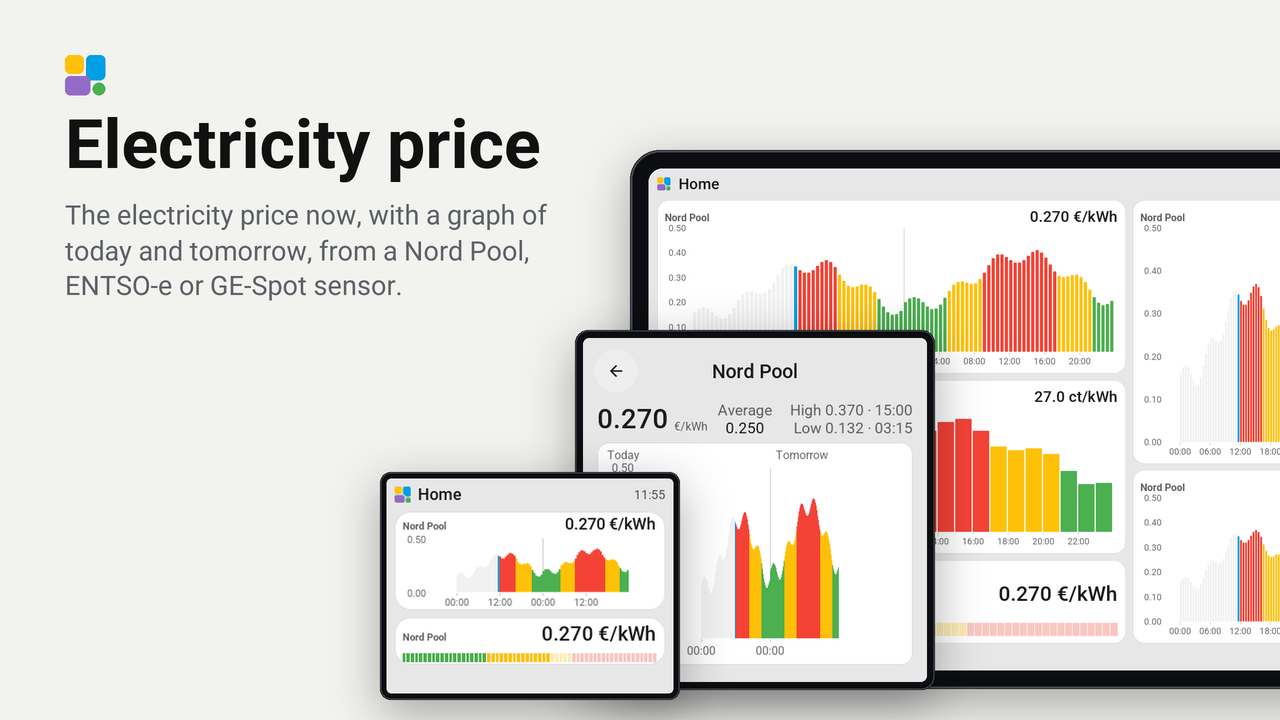
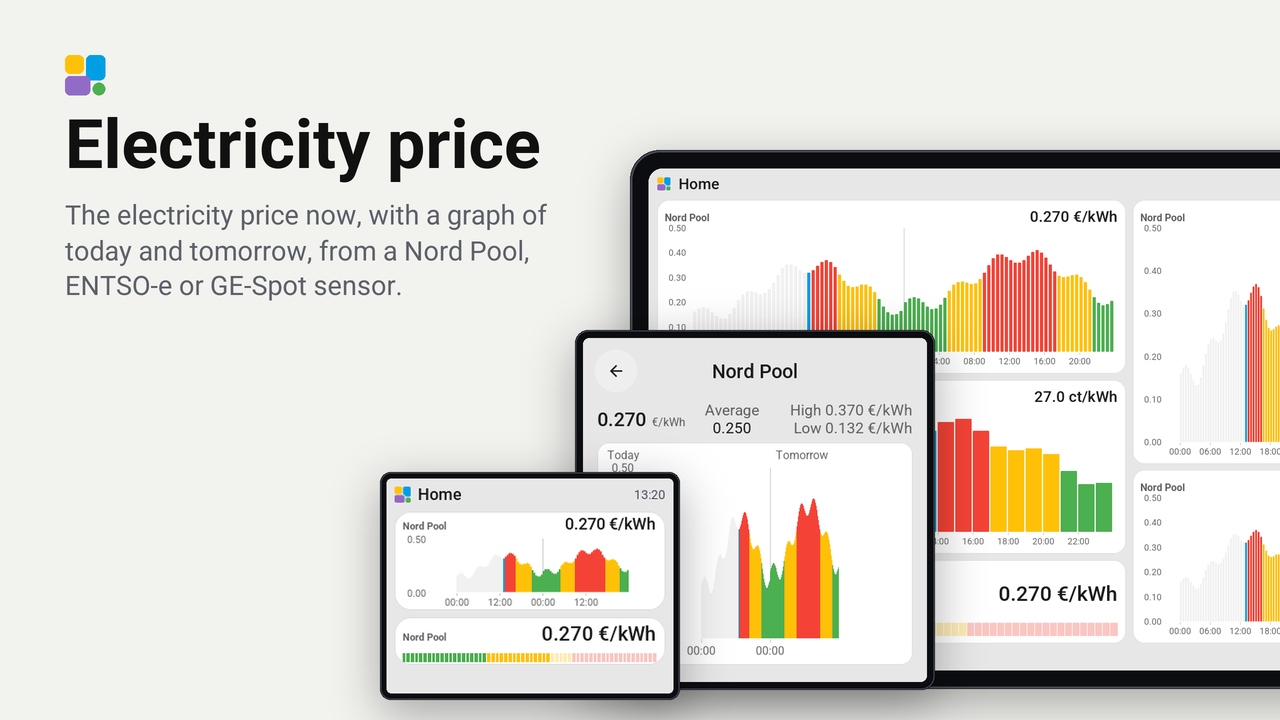
feat: units on card stats, selected bar under time slot, wide card (0.6.1)

diff --git a/components/electricity_price/electricity_price.cpp b/components/electricity_price/electricity_price.cpp
@@ -551,8 +551,8 @@ class PriceCard : public tessera::Card {
     // The header as the history card has it: the price at the left, the average in the middle, and at the right the
     // highest and the lowest with the time slot they are in.
     // The words are the size of the history card's: the font of the words on a key.
-    left_w_ = width_ * 36 / 100;
-    right_x_ = width_ * 58 / 100;
+    left_w_ = width_ * 32 / 100;
+    right_x_ = width_ * 54 / 100;
     avg_cap_ = ui::label(c.parent, Font::BODY_LARGE, theme::MUTED);
     lv_obj_set_size(avg_cap_, right_x_ - left_w_, text_h);
     lv_obj_set_style_text_align(avg_cap_, LV_TEXT_ALIGN_CENTER, 0);
@@ -602,7 +602,6 @@ class PriceCard : public tessera::Card {
     if (sel_ >= 0 && (!ok || prices_.days == 0 || epoch >= sel_until_)) { sel_ = -1; chart_.select(-1); }
     std::string big = ok ? number(prices_.current, decimals_) : plugin_->text(prices_.chosen ? "unavailable" : "choose");
     const std::string small = ok ? unit_text(prices_, cents_) : "";
-    if (sel_ >= 0) big = number(chart_.bar_value(sel_), decimals_);
     Font face = Font::TITLE;
     for (Font f : {Font::VALUE, Font::HEADLINE, Font::TITLE})
       if (ui::text_width(big, f) + gap + ui::text_width(small, Font::BODY) <= left_w_) { face = f; break; }
@@ -617,11 +616,12 @@ class PriceCard : public tessera::Card {
     lv_obj_set_pos(unit_, vw + gap, (head_ - vh) / 2 + vh - sh - ui::px(2));
     const bool graph = ok && prices_.days > 0;
     if (graph && sel_ >= 0) {
+      // The tapped bar: its time slot, and its price under it, while the price of now stays where it is.
       ui::set_text(avg_cap_, slot_times(epoch));
-      ui::set_text(avg_, "");
+      ui::set_text(avg_, with_unit(chart_.bar_value(sel_), right_x_ - left_w_));
     } else {
       ui::set_text(avg_cap_, graph ? plugin_->text("average") : "");
-      ui::set_text(avg_, graph ? number(prices_.avg, decimals_) : "");
+      ui::set_text(avg_, graph ? with_unit(prices_.avg, right_x_ - left_w_) : "");
     }
     ui::set_text(extreme_[0], graph ? extreme_text("high", prices_.hi, prices_.hi_slot, epoch) : "");
     ui::set_text(extreme_[1], graph ? extreme_text("low", prices_.lo, prices_.lo_slot, epoch) : "");
@@ -674,8 +674,17 @@ class PriceCard : public tessera::Card {
   }
 
   // "High 0.381 · 18:00–18:15": the price and the time slot it is in; only the start when the whole does not fit.
+  // The price with its unit behind it; the price alone when both do not fit in `room`.
+  std::string with_unit(float value, int room) const {
+    const std::string n = number(value, decimals_), unit = unit_text(prices_, cents_);
+    const std::string both = unit.empty() ? n : n + " " + unit;
+    return ui::text_width(both, Font::BODY_LARGE) <= room ? both : n;
+  }
+
   std::string extreme_text(const char *key, float value, int slot, uint32_t epoch) const {
-    std::string words = tessera::fill(plugin_->text(key), "value", number(value, decimals_));
+    std::string words = tessera::fill(plugin_->text(key), "value", with_unit(value, width_));
+    if (ui::text_width(words, Font::BODY_LARGE) > width_ - right_x_)
+      words = tessera::fill(plugin_->text(key), "value", number(value, decimals_));
     if (!epoch) return words;
     const tessera::LocalTime t = tessera::local_time(epoch);
     const uint32_t midnight = epoch - (t.hour * 3600 + t.minute * 60 + t.second);
@@ -684,7 +693,8 @@ class PriceCard : public tessera::Card {
     const std::string dash = ui::covers("\u2013", Font::BODY_LARGE) ? "\u2013" : "-";
     const std::string both = words + " \u00b7 " + from + dash + tessera::clock_text(midnight + (slot + 1) * minutes * 60);
     if (ui::text_width(both, Font::BODY_LARGE) <= width_ - right_x_) return both;
-    return words + " \u00b7 " + from;
+    const std::string start = words + " \u00b7 " + from;
+    return ui::text_width(start, Font::BODY_LARGE) <= width_ - right_x_ ? start : words;
   }
 
   const tessera::Plugin *plugin_;
@@ -705,7 +715,7 @@ void ElectricityPrice::setup() {
   add_tile("nordpool", [this]() { return new PriceTile(this, shared_); });
   add_tile("entsoe", [this]() { return new PriceTile(this, shared_); });
   add_tile("gespot", [this]() { return new PriceTile(this, shared_); });
-  add_card("prices", [this]() { return new PriceCard(this, shared_); }, false);
+  add_card("prices", [this]() { return new PriceCard(this, shared_); }, true);
 }
 
 }  // namespace esphome::electricity_price

diff --git a/CHANGELOG.md b/CHANGELOG.md
@@ -1,5 +1,11 @@
 # Changelog
 
+## 0.6.1
+- The card is as wide as the glass, like Tessera's own graph.
+
+## 0.6.0
+- Card: the unit behind the average, the highest and the lowest. A tapped bar shows its price under its time slot in the middle, and the price of now stays at the left.
+
 ## 0.5.4
 - Store picture (store.png) made on the bench.
 - Fixes found by the first real build: the GE-Spot tile is registered, no `strlcpy`, the Tomorrow label stays inside the card.
